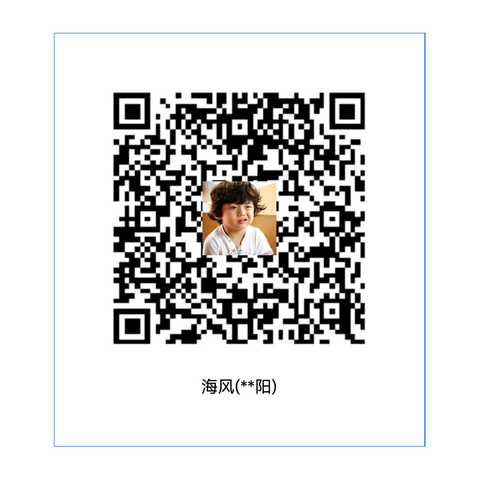
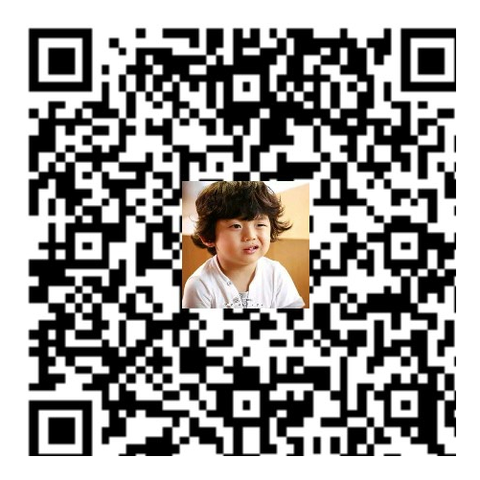
docs: 收款码改为裸二维码样式（去白卡边框与名字），表头对齐参照仓库

diff --git a/README.md b/README.md
@@ -463,9 +463,9 @@ MIT（见 [LICENSE](LICENSE)）。
 
 如果想再进一步，也可以请作者喝杯咖啡（**完全自愿，不影响任何功能**）：
 
-| 微信 | 支付宝 |
+| 微信（WeChat） | 支付宝（Alipay） |
 |:---:|:---:|
-| ![微信收款码](docs/qr-wechat.png) | ![支付宝收款码](docs/qr-alipay.png) |
+| <img src="docs/qr-wechat.png" alt="微信收款码" width="220" height="220"> | <img src="docs/qr-alipay.png" alt="支付宝收款码" width="220" height="220"> |
 
 > 本项目以 MIT 协议自由开源，**没有付费版、也没有付费功能**；捐赠纯属自愿，
 > 与功能开放、版本更新、Issue 响应**没有任何关系**。
